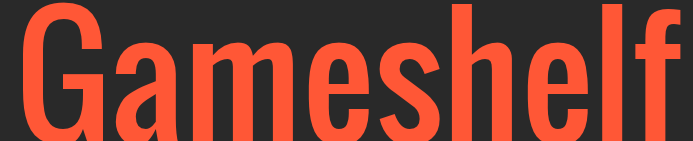
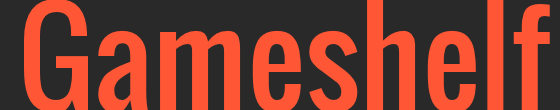
image fixes

diff --git a/app/assets/stylesheets/application.scss b/app/assets/stylesheets/application.scss
@@ -21,7 +21,7 @@
 body {
   background-color: $background-grey;
   font-family: "Raleway", sans-serif;
-  font-size: 1.25em;
+  font-size: 1em;
 }
 
 label {
@@ -33,7 +33,7 @@ a {
 }
 
 a:hover {
-  color: $black;
+  color: $hover-blue;
 }
 
 .alert, .notice {
@@ -70,12 +70,13 @@ a:hover {
 }
 
 .games {
-  font-size: 1.15em;
+  font-size: 1em;
   list-style: none;
 }
 
 .logo {
   background-color: $background-grey;
+  padding-top: 15px;
   text-align: center;
 }
 
@@ -96,8 +97,4 @@ a:hover {
 .page-header h2 {
   display: block;
   font-family: "Oswald", sans-serif;
-}
-
-.site-title {
-  background-image: url("Gameshelf.png");
 }

diff --git a/app/assets/stylesheets/_colors.scss b/app/assets/stylesheets/_colors.scss
@@ -2,3 +2,4 @@ $background-grey: #292929;
 $orange: #FE563B;
 $white: #ffffff;
 $black: #000000;
+$hover-blue: #1583cc;

diff --git a/config/environments/development.rb b/config/environments/development.rb
@@ -12,7 +12,7 @@ Rails.application.configure do
   # Show full error reports and disable caching.
   config.consider_all_requests_local       = true
   config.action_controller.perform_caching = false
-  config.serve_static_assets = false
+  config.serve_static_files = false
 
   # Don't care if the mailer can't send.
   config.action_mailer.raise_delivery_errors = false
